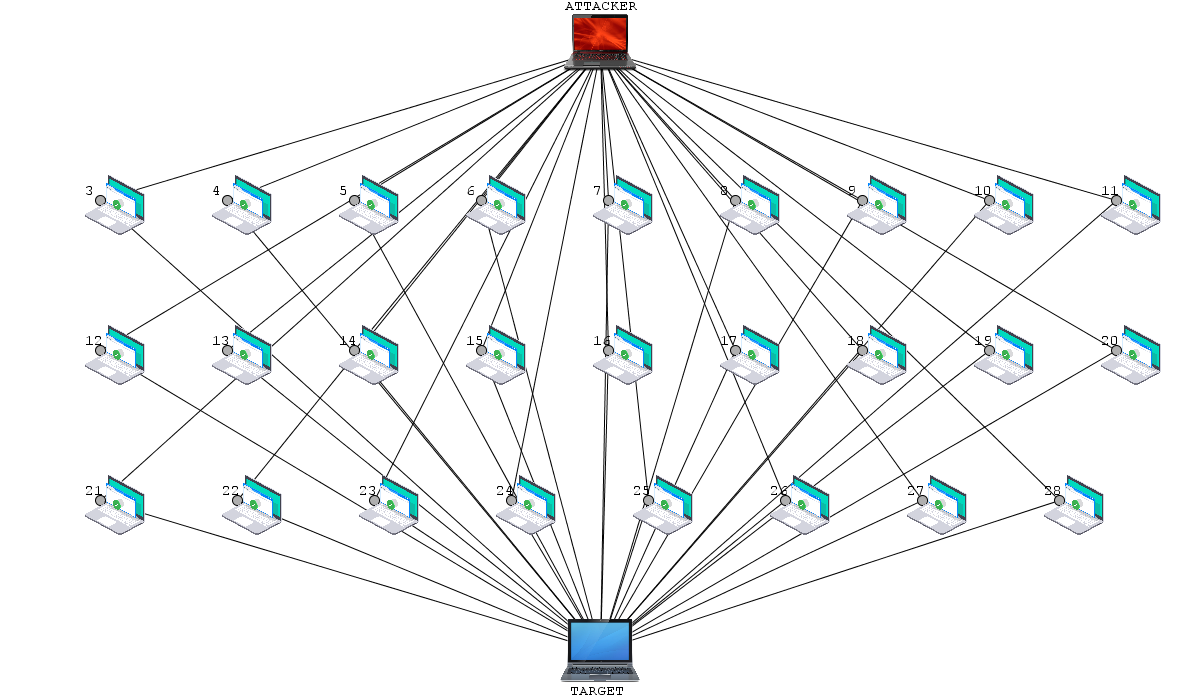
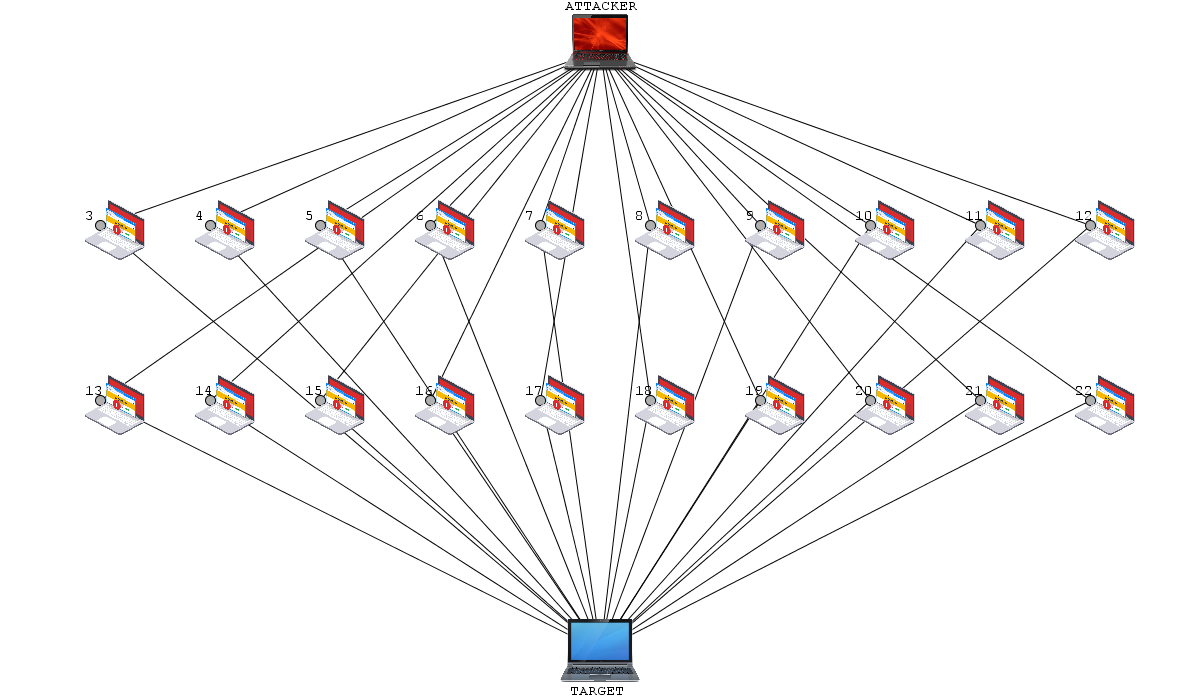
gotovo za danas

diff --git a/src/graphic/ProcessingSimulation.java b/src/graphic/ProcessingSimulation.java
@@ -3,6 +3,8 @@ package graphic;
 import bin.*;
 import bin.Package;
 import processing.core.*;
+
+import java.awt.Color;
 import java.util.*;
 
 import javax.swing.JTextArea;
@@ -13,16 +15,16 @@ public class ProcessingSimulation extends PApplet{
 							 MATRIX_RANGE_6 = 75, MATRIX_RANGE_5 = 100, MATRIX_RANGE_4 = 125, MATRIX_RANGE_3 = 150, MATRIX_RANGE_2 = 175, MATRIX_RANGE_1 = 200,
 							 NODES_PER_LINE = 10, PIXEL_START_TOP = 50;
 	
-	private static final int STAGE_INFECTING_VIRUS = 1, STAGE_INIT_NETWORK = 2, STAGE_IDLE = 3;
-	private int numOfSlaves;
+	public static final int STAGE_INFECTING_VIRUS = 1, STAGE_INIT_NETWORK = 2, STAGE_IDLE = 3, STAGE_ATTACKING = 4;
+	private int numOfSlaves, ddosType, infected = 0, currentNumPackages = 0;
+	private long lastPackageWave = 0;
 	private Network network;
 	private DDoSSimulation GUIcontrol;
 	private int stage = ProcessingSimulation.STAGE_INIT_NETWORK;
 	private PImage networkBackground;
-	private boolean newImageToLoad = false;
-	private boolean firstImageLoad = false;
-	private int infected = 0;
-	
+	private boolean newImageToLoad = false, firstImageLoad = false;
+	private float angleTargetMemory = 0;
+
 	public ProcessingSimulation(DDoSSimulation DDosGui) {
 		this.GUIcontrol = DDosGui;
 	}
@@ -40,6 +42,7 @@ public class ProcessingSimulation extends PApplet{
 	public void infectSlaves() { 
 		stage = ProcessingSimulation.STAGE_INFECTING_VIRUS;
 		network.infectSlaves();
+		GUIcontrol.updateLastInputTerminal();
 	}
 	
 	private void drawNetworkBegging() {	
@@ -99,6 +102,9 @@ public class ProcessingSimulation extends PApplet{
 	}
 
 	private void update() {
+		currentNumPackages = network.getNumPackages();
+		angleTargetMemory = (network.getTagetLeftPercent())*360;
+		
 		if (stage == ProcessingSimulation.STAGE_INFECTING_VIRUS) {
 			//check if all nodes received packages and then change servers -> infected slaves
 			Set<Edge> allEdges = network.getAllEdges();
@@ -126,10 +132,26 @@ public class ProcessingSimulation extends PApplet{
 				saveFrame("data/initalNetwork.png");
 				JTextArea terminal = getTerminal();
 				terminal.append("\n>Infecting done... \n>");
+				GUIcontrol.updateLastInputTerminal();
+				
 				stage = ProcessingSimulation.STAGE_IDLE;
 			}
-		
+		} else if (stage == ProcessingSimulation.STAGE_ATTACKING) {
+			generateCYNpackages(ddosType);
 		}
+	}
+	
+	private void generateCYNpackages(int packageType) {
+		long currSec = System.currentTimeMillis()/1000;
+		
+		if (lastPackageWave == 0) {
+			lastPackageWave = currSec;
+			network.sendFromAllSlaves(packageType);
+		} else 
+			if ((currSec - lastPackageWave) >= 5) {  
+				lastPackageWave = currSec;
+				network.sendFromAllSlaves(packageType);
+			}
 	}
 	
 	public void draw() {
@@ -152,7 +174,26 @@ public class ProcessingSimulation extends PApplet{
 		
 		drawAllPackages();
 		
-	  }
+		Color color = null;
+		if ((angleTargetMemory/36)*10 < 30) color = Color.GREEN;
+		else if ((angleTargetMemory/36)*10 > 30 && (angleTargetMemory/36)*10 < 60) color = Color.ORANGE;
+		else color = Color.RED;
+		
+		if (angleTargetMemory > 0) {
+			noStroke();
+			fill(color.getRGB(), 51);
+			arc(APPLET_WIDTH - 200, APPLET_HEIGHT - 150, 200, 200, 0, radians(angleTargetMemory));
+			
+			noStroke();
+			fill(255);
+			arc(APPLET_WIDTH - 200, APPLET_HEIGHT - 150, 100, 100, 0, radians(360));
+			
+			PFont font = loadFont("coder-15.vlw");
+			textFont(font);
+			fill(0);
+			text((angleTargetMemory/36)*10+"%", APPLET_WIDTH - 230, APPLET_HEIGHT - 150);
+		}
+	}
 	
 	private void drawAllPackages() {
 		Set<Edge> allEdges = network.getAllEdges();
@@ -169,6 +210,9 @@ public class ProcessingSimulation extends PApplet{
 			float y = pack.getY();
 			
 			float speedUp = 3;
+			
+			if (currentNumPackages/10 > 0) speedUp = speedUp * currentNumPackages/10;
+			
 			float speedX = 0;
 			float speedY = 1;
 			
@@ -194,14 +238,18 @@ public class ProcessingSimulation extends PApplet{
 			PImage img;
 			if (pack.getType() == Package.EMAIL_VIRUS)  
 				img = loadImage("email2.png");
-			else
-				img = loadImage("packageIcon2.png");
+			else if (pack.getType() == Package.CYN_PACKAGE)
+				img = loadImage("spoofedPackage.png");
+			else 
+				img = loadImage("spoofedPackage.png");
 			
 			image(img, x-15, y, PIXEL_RANGE_NODE/2, PIXEL_RANGE_NODE/2);
-		} 
+		}
+		else if (pack.getType() == Package.CYN_PACKAGE) {
+			//increase target memory
+			network.getTargetNode().processPackage(pack);
+			}
 	}
-	
-	public void setNumOfSlaves(int num) { numOfSlaves = num; } 
 	
 	public void saveInitialNetwork() {
 		try {
@@ -294,7 +342,14 @@ public class ProcessingSimulation extends PApplet{
 		}
 	}
 
-	public JTextArea getTerminal() {
-		return GUIcontrol.getTerminal();
+	public void startDDos(int ddosType) {
+		stage = ProcessingSimulation.STAGE_ATTACKING;
+		this.ddosType = ddosType;
 	}
+	
+	public JTextArea getTerminal() { return GUIcontrol.getTerminal(); }
+	
+	public void setNumOfSlaves(int num) { numOfSlaves = num; } 
+	
+	public int getStage() { return stage; }
 }

diff --git a/src/graphic/DDoSSimulation.java b/src/graphic/DDoSSimulation.java
@@ -29,6 +29,9 @@ public class DDoSSimulation {
 	private boolean userInput = false, defaultInput = false, fileInput = false;
 	private JTextArea terminal;
 	
+	public static final int CYN_FLOOD = 1, ICMP_FLOOD = 2;
+	private int packageType = 1, lastInputTerminal = 1;
+	
 	private ProcessingSimulation procGraphic = null;
 	private String[] pArgs = {"ProcessingSimulation "};
 	private int numSlavesConf = 0, ttlConf = 4, memoryConf = 0, packageConf = 32;
@@ -37,7 +40,7 @@ public class DDoSSimulation {
 		//makePopUpStart();
 		makeWindow(true,true,true,true);
 		procGraphic = new ProcessingSimulation(this);
-		procGraphic.setNumOfSlaves(26);
+		procGraphic.setNumOfSlaves(20);
 		procGraphic.makeNetworkDefault();
 		runSimulation();
 	}
@@ -209,14 +212,25 @@ public class DDoSSimulation {
 		        	e.consume();
 		        	
 		        	String command = terminal.getText();
-		        	command = command.substring(1);
+		        	command = command.substring(lastInputTerminal);
 		        	
-		        	if (command.equals("start infecting")) {
+		        	if (command.equals("start infecting")) { //---------------------------------------------------------
 		        		if (procGraphic == null) {
 		        			terminal.append("\n>Configure network first... \n>");
+		        			updateLastInputTerminal();
 		        		} else 
 		        			procGraphic.infectSlaves();
 		        	} 
+		        	else if (command.equals("start ddos")) { //----------------------------------------------------------
+		        		if (procGraphic.getStage() == ProcessingSimulation.STAGE_IDLE)
+		        			procGraphic.startDDos(packageType);
+		        		else {
+		        			terminal.append("\n>Infect slaves first... \n>");
+		        			updateLastInputTerminal();
+		        		}
+		        	} 
+		        	
+		        	
 		        }
 		    }
 
@@ -360,6 +374,11 @@ public class DDoSSimulation {
 	
 	public JTextArea getTerminal() {
 		return terminal;
+	}
+	
+	public void updateLastInputTerminal(){
+		String textTerminal = terminal.getText();
+		lastInputTerminal = textTerminal.length();
 	}
 	
 	public static void main(String[] args) {

diff --git a/src/bin/Computer.java b/src/bin/Computer.java
@@ -6,18 +6,16 @@ public class Computer {
 	
 	private String ipAddress;
 	private String domain;
-	private int type, currSizeMemBuff, TTL;
+	private int type, TTL;
 	private int[] memBuffer;
+	private int maxSize = 0, currSize = 0;
 	
 	public Computer(String ipAddress, String domain, int type, int memSize) {
 		this.ipAddress = ipAddress;
 		this.domain = domain;
 		this.type = type;
-		currSizeMemBuff = 0;
-		TTL = 4;				// default TTL = 4 sec;
-		
-		//check for max memory
-		if (memSize > 0) memBuffer = new int[memSize];
+		TTL = 4;
+		maxSize = memSize;
 	}
 	
 	public Computer(String ipAddress, String domain, int type, int memSize, int TTL) {
@@ -25,15 +23,12 @@ public class Computer {
 		this.domain = domain;
 		this.type = type;
 		this.TTL = TTL;
-		currSizeMemBuff = 0;
-			
-		//check for max memory
-		if (memSize > 0) memBuffer = new int[memSize];
+		maxSize = memSize;
 	}
 	
 	public int getTTL() { return TTL; }
-	public int getMemBuffSizeCurrent() { return currSizeMemBuff;}
-	public int getMemBuffSize() {return memBuffer.length; }
+	public int getMemBuffSizeCurrent() { return currSize;}
+	public int getMemBuffSize() {return maxSize; }
 	public int getType() { return type; }
 	public String getIpAddress() { return ipAddress; }
 	public String getDomain() {return domain; }
@@ -45,6 +40,16 @@ public class Computer {
 		if (type == TARGET) return "TARGET";
 		
 		return "missing info";
+	}
+	
+	public void increaseMemory(int size) { 
+		if ((currSize + size) < maxSize) currSize += size;
+		else if ( currSize + size >= maxSize) currSize = maxSize;
+	} 
+	
+	public void decreaseMemory(int size) {
+		if ((currSize - size) > 0) currSize -= size;
+		else if (currSize > 0 && (currSize - size <= 0) ) currSize = 0;
 	}
 
 }

diff --git a/src/bin/Edge.java b/src/bin/Edge.java
@@ -25,16 +25,24 @@ public class Edge {
 		pack.setX(nodeFrom.getX());
 		pack.setY(nodeFrom.getY());
 		packages.add(pack);
+		network.incrementNumPackages();
 		if (pack.getType() == Package.EMAIL_VIRUS) virusPackage = pack;
 	}
 	
 	public Set<Package> getPackages() { return packages; }
 	public Package getVirusPackage() { return virusPackage; }
 	
-	public void deleteVirusPackage() { virusPackage = null; }
+	public void deleteVirusPackage() { 
+		virusPackage = null; 
+		network.decrementNumPackages();
+	}
 	
 	public void writeSendingStart(Package pack, JTextArea terminal) {
-		terminal.append("\n>Sending virus email from " + nodeFrom.getComputer().getIpAddress() + 
-						" to " + nodeTo.getComputer().getIpAddress());
+		if (pack.getType() == Package.EMAIL_VIRUS)
+			terminal.append("\n>Sending virus email from " + nodeFrom.getComputer().getIpAddress() + 
+							" to " + nodeTo.getComputer().getIpAddress());
+		else if (pack.getType() == Package.CYN_PACKAGE)
+			terminal.append("\n>Sending CYN package from " + nodeFrom.getComputer().getIpAddress() + 
+					" to " + nodeTo.getComputer().getIpAddress());
 	} 
 }

diff --git a/src/bin/Network.java b/src/bin/Network.java
@@ -9,6 +9,7 @@ public class Network {
 	private Set<Node> allNodes = new HashSet<Node>();
 	private Set<Edge> allEdges = new HashSet<Edge>();
 	private Node masterNode = null, targetNode = null;
+	private int numPackages = 0;
 	
 	public Network(ProcessingSimulation procSim) {
 		this.procSim = procSim;
@@ -61,4 +62,26 @@ public class Network {
 			}
 		}
 	}
+
+	public void sendFromAllSlaves(int packageType) {
+		for (Node n: allNodes) {
+			if (n.getComputer().getType() == Computer.SLAVE) {
+				Edge e = getEdge(n, targetNode);
+				Package pack = new Package(e, 32, packageType);
+				e.startSendingPackage(pack);
+				e.writeSendingStart(pack, procSim.getTerminal());
+			}
+		}
+	}
+	
+	public void incrementNumPackages() { numPackages++; }
+	public void decrementNumPackages() { numPackages--; }
+	
+	public int getNumPackages() { return numPackages; }
+	
+	public float getTagetLeftPercent() {
+		return (float)targetNode.getComputer().getMemBuffSizeCurrent() / (float)targetNode.getComputer().getMemBuffSize();
+	}
+
+	// function for ping
 }

diff --git a/src/bin/Node.java b/src/bin/Node.java
@@ -25,6 +25,7 @@ public class Node {
 	}
 	
 	public void setInfected(boolean inf) { infected = inf; }
+	
 	public boolean getInfected() { return infected; }
 	
 	public Computer getComputer() { return computer; }
@@ -38,4 +39,15 @@ public class Node {
 	public int getX() { return cordX; }
 	
 	public int getY() { return cordY; }
+	
+	public boolean processPackage(Package pack) {
+		//check if there is return ip in network, and return ACK to it
+		
+		// it ip doesn't exist -> increase memory and set time when package is received
+		long currSec = System.currentTimeMillis()/1000;
+		pack.setTimeReceived(currSec);
+		computer.increaseMemory(pack.getSize());
+		return false;
+		
+	}
 }

diff --git a/src/bin/Package.java b/src/bin/Package.java
@@ -1,13 +1,13 @@
 package bin;
 
 public class Package {
-	public static final int EMAIL_VIRUS = 1, PACKAGE = 2;
+	public static final int EMAIL_VIRUS = 0, CYN_PACKAGE = 1, ICMP_PACKAGE = 2;
 	
 	private Edge edge;
-	private int size;
-	private int type;
+	private int size, type;
 	private float cordX = 0, cordY = 0;
 	private boolean received = false;
+	private long timeInBuffer = 0;
 	
 	public Package(Edge e, int size, int type) {
 		edge = e;
@@ -42,4 +42,7 @@ public class Package {
 	}
 	
 	public int getType() { return type; }
+	public int getSize() { return size; }
+	
+	public void setTimeReceived(long time) { timeInBuffer = time;} 
 }
